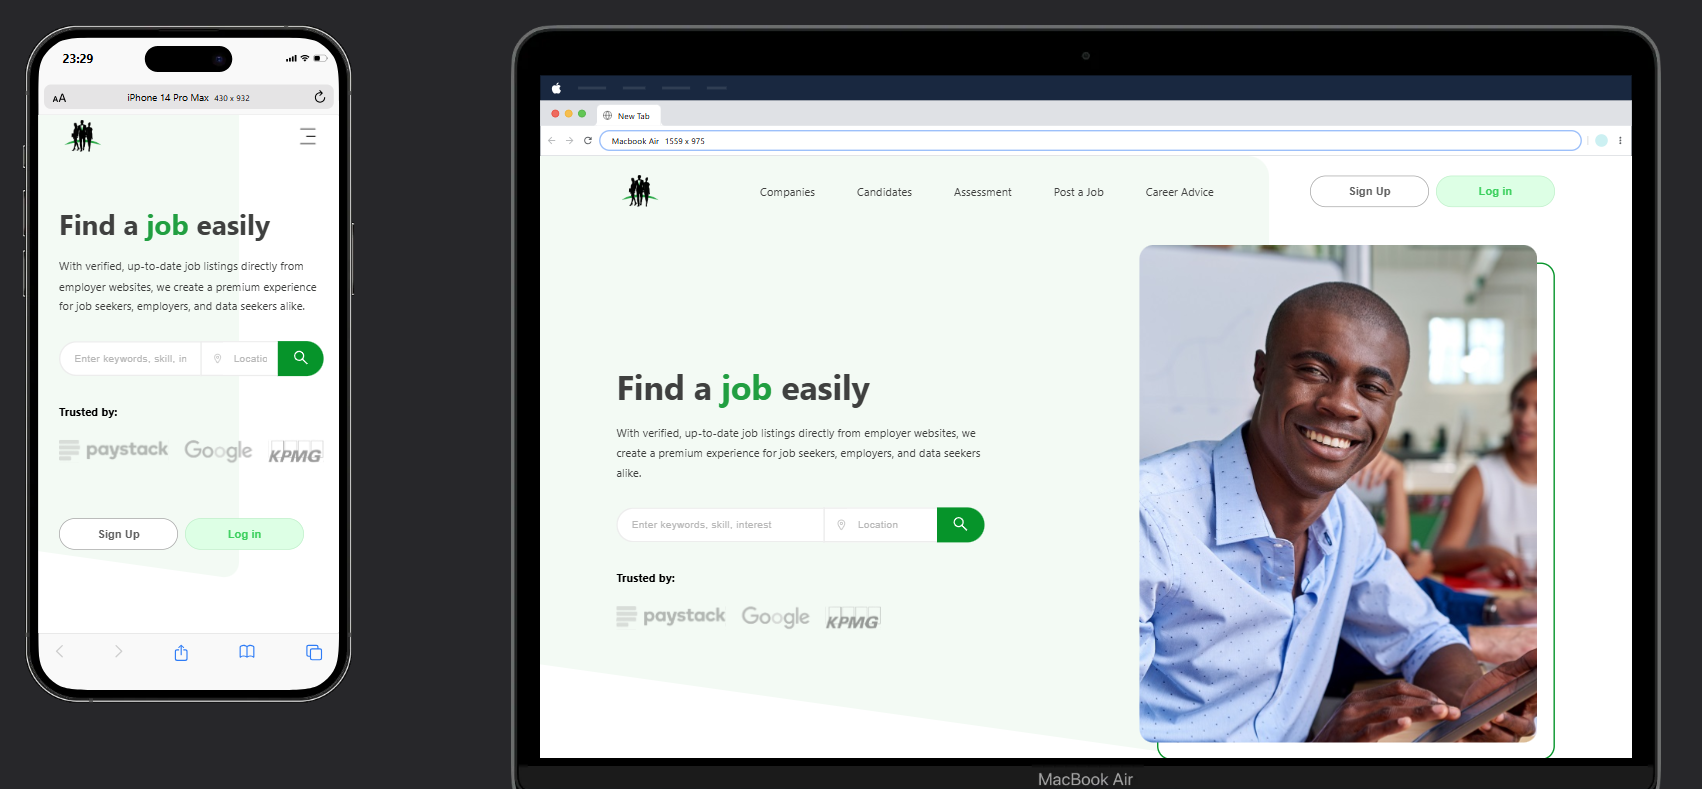
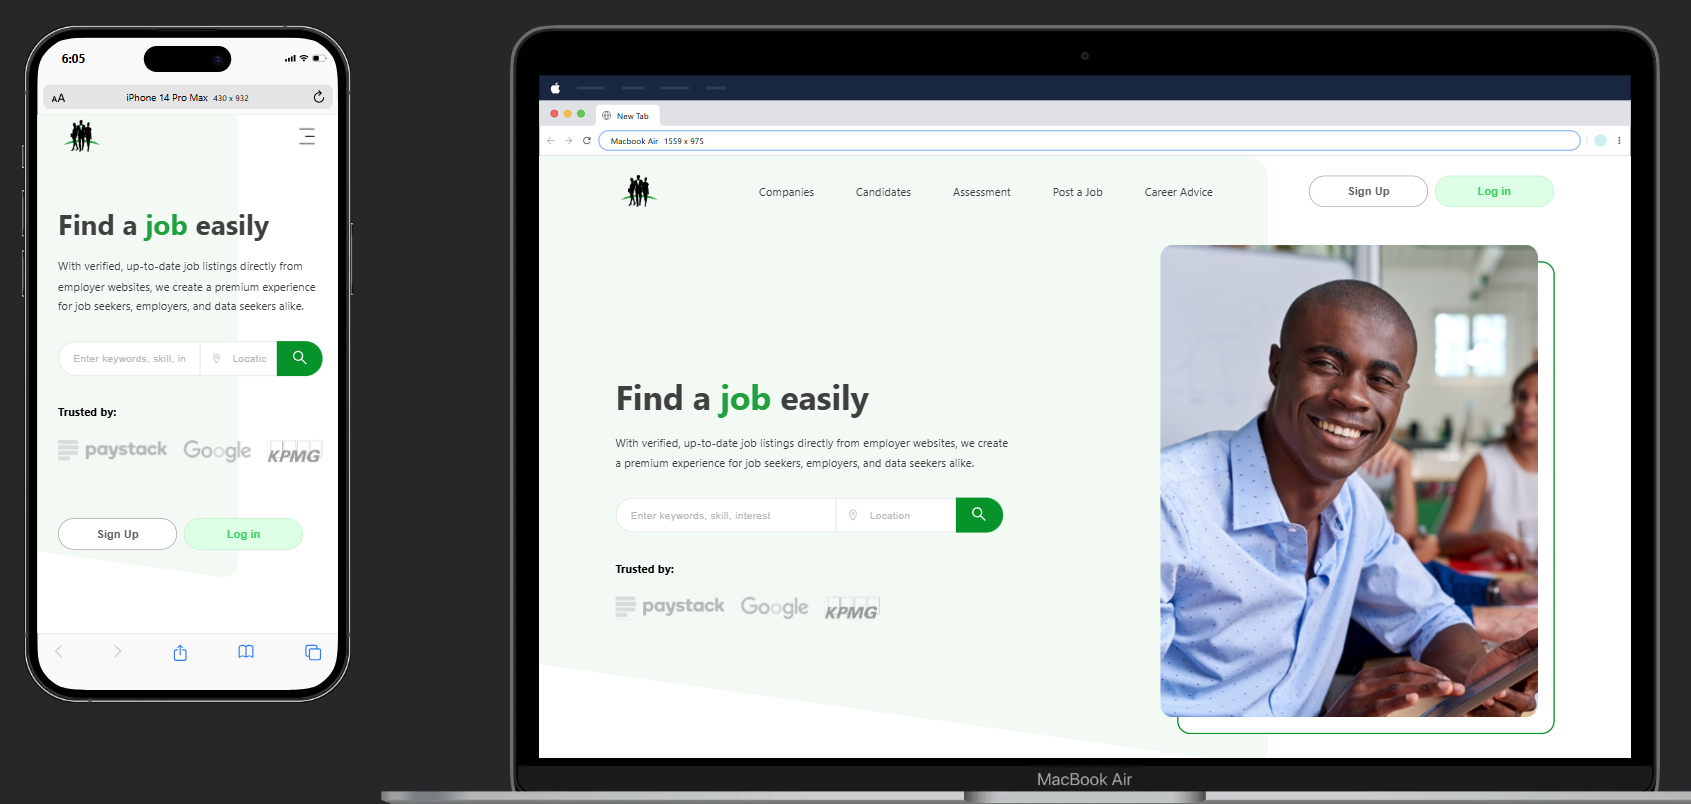
update hero image size

diff --git a/src/index.css b/src/index.css
@@ -208,7 +208,7 @@ button {
 }
 .hero-section .right-side img {
     /* width: 100%; */
-    height: 100%;
+    height: 95%;
     transform: translateX(25px);
 }
 .hero-links {
